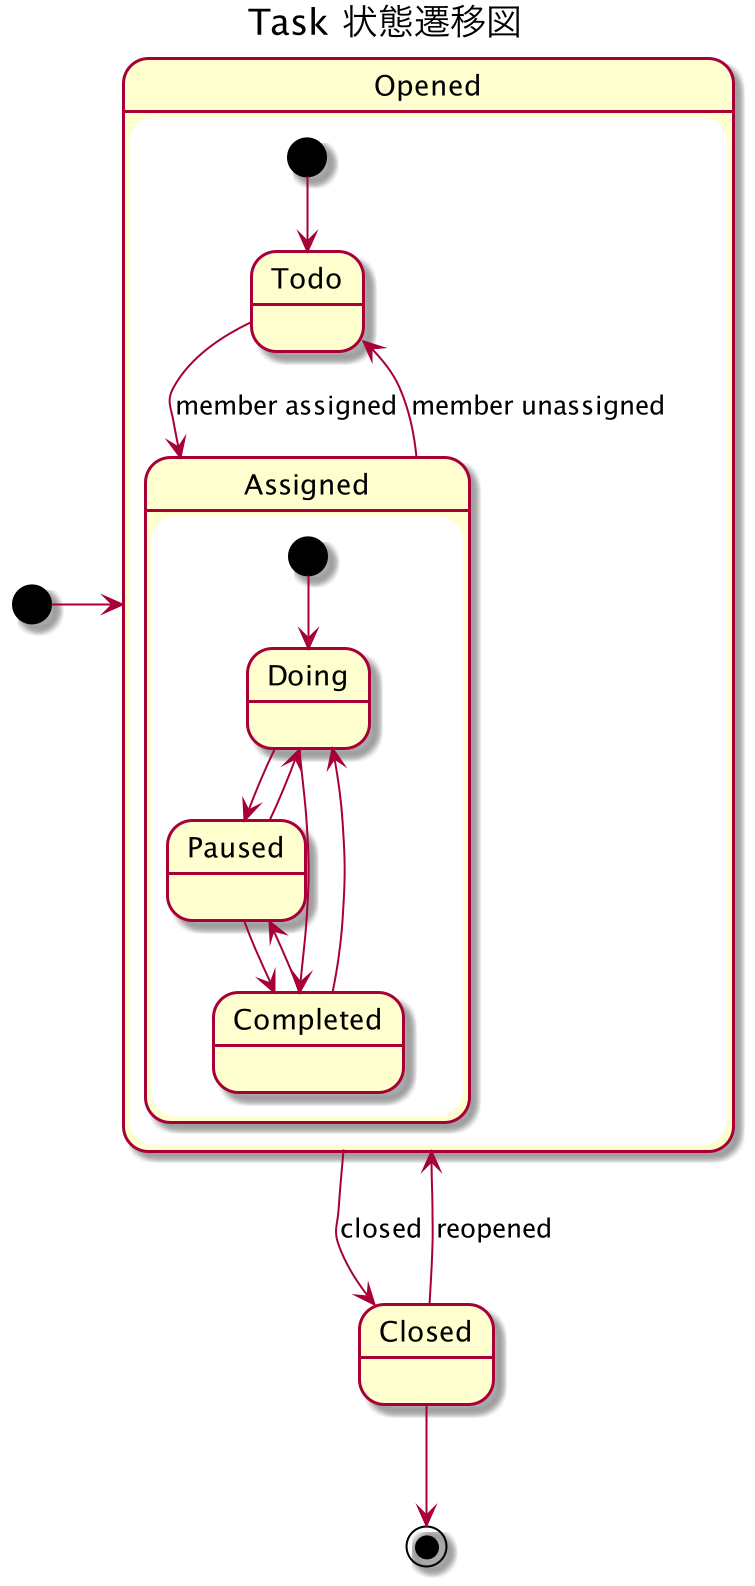
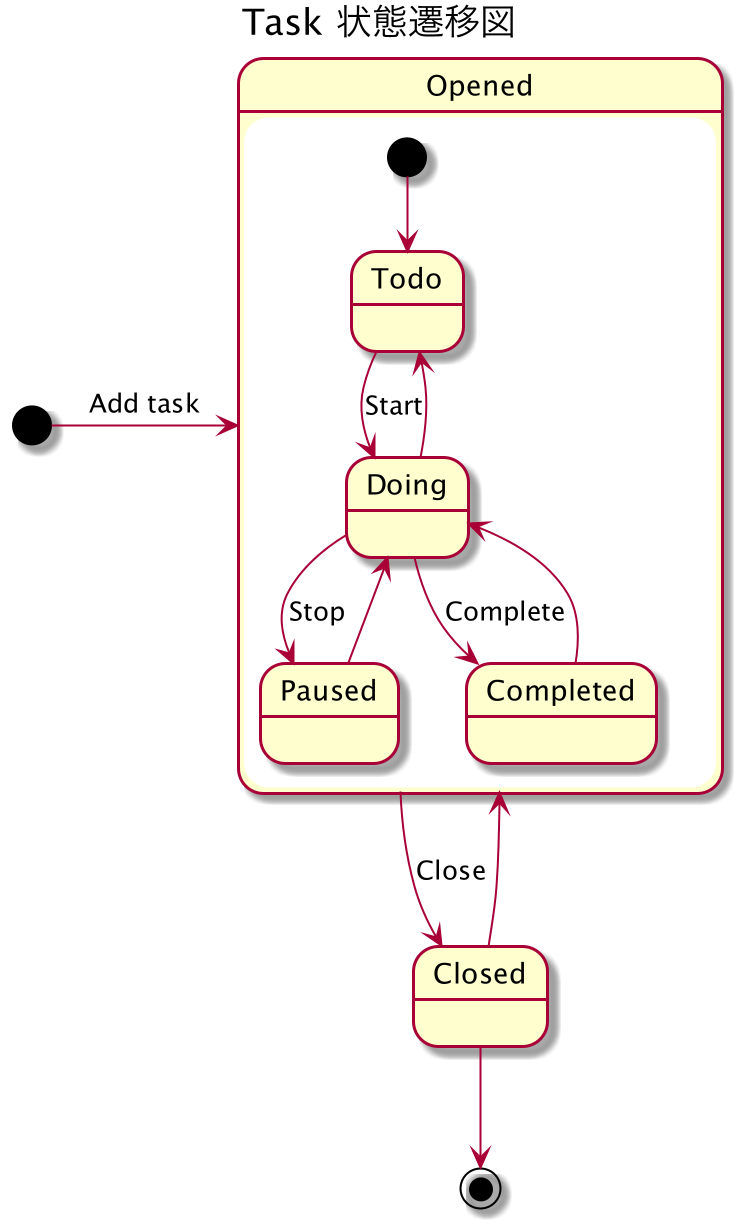
modify Task

Changed region(s): [[0.1237, 0.0, 0.9892, 1.0], [0.0, 0.3094, 0.0927, 0.4023]]

diff --git a/domain/task/task_test.go b/domain/task/task_test.go
@@ -1,4 +1,4 @@
-package domain
+package task
 
 import (
 	"github.com/stretchr/testify/assert"
@@ -9,13 +9,17 @@ func TestChangeTaskState(t *testing.T) {
 	task := NewTask("title", "description")
 	assert.Equal(t, "TODO", task.CurrentState())
 
-	task = task.Assign("John")
-	assert.Equal(t, "ASSIGNED", task.CurrentState())
-	assert.Equal(t, "John", task.Assignee)
+	task = task.Start()
+	assert.Equal(t, "DOING", task.CurrentState())
 
-	task = task.UnAssign()
+	task = task.Pause()
+	assert.Equal(t, "PAUSED", task.CurrentState())
+
+	task = task.Complete()
+	assert.Equal(t, "COMPLETED", task.CurrentState())
+
+	task = task.Stop()
 	assert.Equal(t, "TODO", task.CurrentState())
-	assert.Equal(t, "", task.Assignee)
 
 	task = task.Close()
 	assert.Equal(t, "CLOSED", task.CurrentState())

diff --git a/domain/task/task.go b/domain/task/task.go
@@ -1,0 +1,47 @@
+package task
+
+type Task struct {
+	Id          string
+	Title       string
+	Description string
+	state       State
+}
+
+func NewTask(title, description string) Task {
+	return Task{
+		// TODO: assign unique ID
+		Id:          "1000",
+		Title:       title,
+		Description: description,
+		state:       stateTodo{},
+	}
+}
+
+func (t Task) Stop() Task {
+	t.state = stateTodo{}
+	return t
+}
+
+func (t Task) Start() Task {
+	t.state = stateDoing{}
+	return t
+}
+
+func (t Task) Pause() Task {
+	t.state = statePaused{}
+	return t
+}
+
+func (t Task) Complete() Task {
+	t.state = stateCompleted{}
+	return t
+}
+
+func (t Task) Close() Task {
+	t.state = stateClosed{}
+	return t
+}
+
+func (t Task) CurrentState() string {
+	return t.state.CurrentState()
+}

diff --git a/domain/task/state.go b/domain/task/state.go
@@ -1,0 +1,35 @@
+package task
+
+type State interface {
+	CurrentState() string
+}
+
+type stateTodo struct{}
+
+func (s stateTodo) CurrentState() string {
+	return "TODO"
+}
+
+type stateDoing struct{}
+
+func (s stateDoing) CurrentState() string {
+	return "DOING"
+}
+
+type statePaused struct{}
+
+func (s statePaused) CurrentState() string {
+	return "PAUSED"
+}
+
+type stateCompleted struct{}
+
+func (s stateCompleted) CurrentState() string {
+	return "COMPLETED"
+}
+
+type stateClosed struct{}
+
+func (s stateClosed) CurrentState() string {
+	return "CLOSED"
+}
